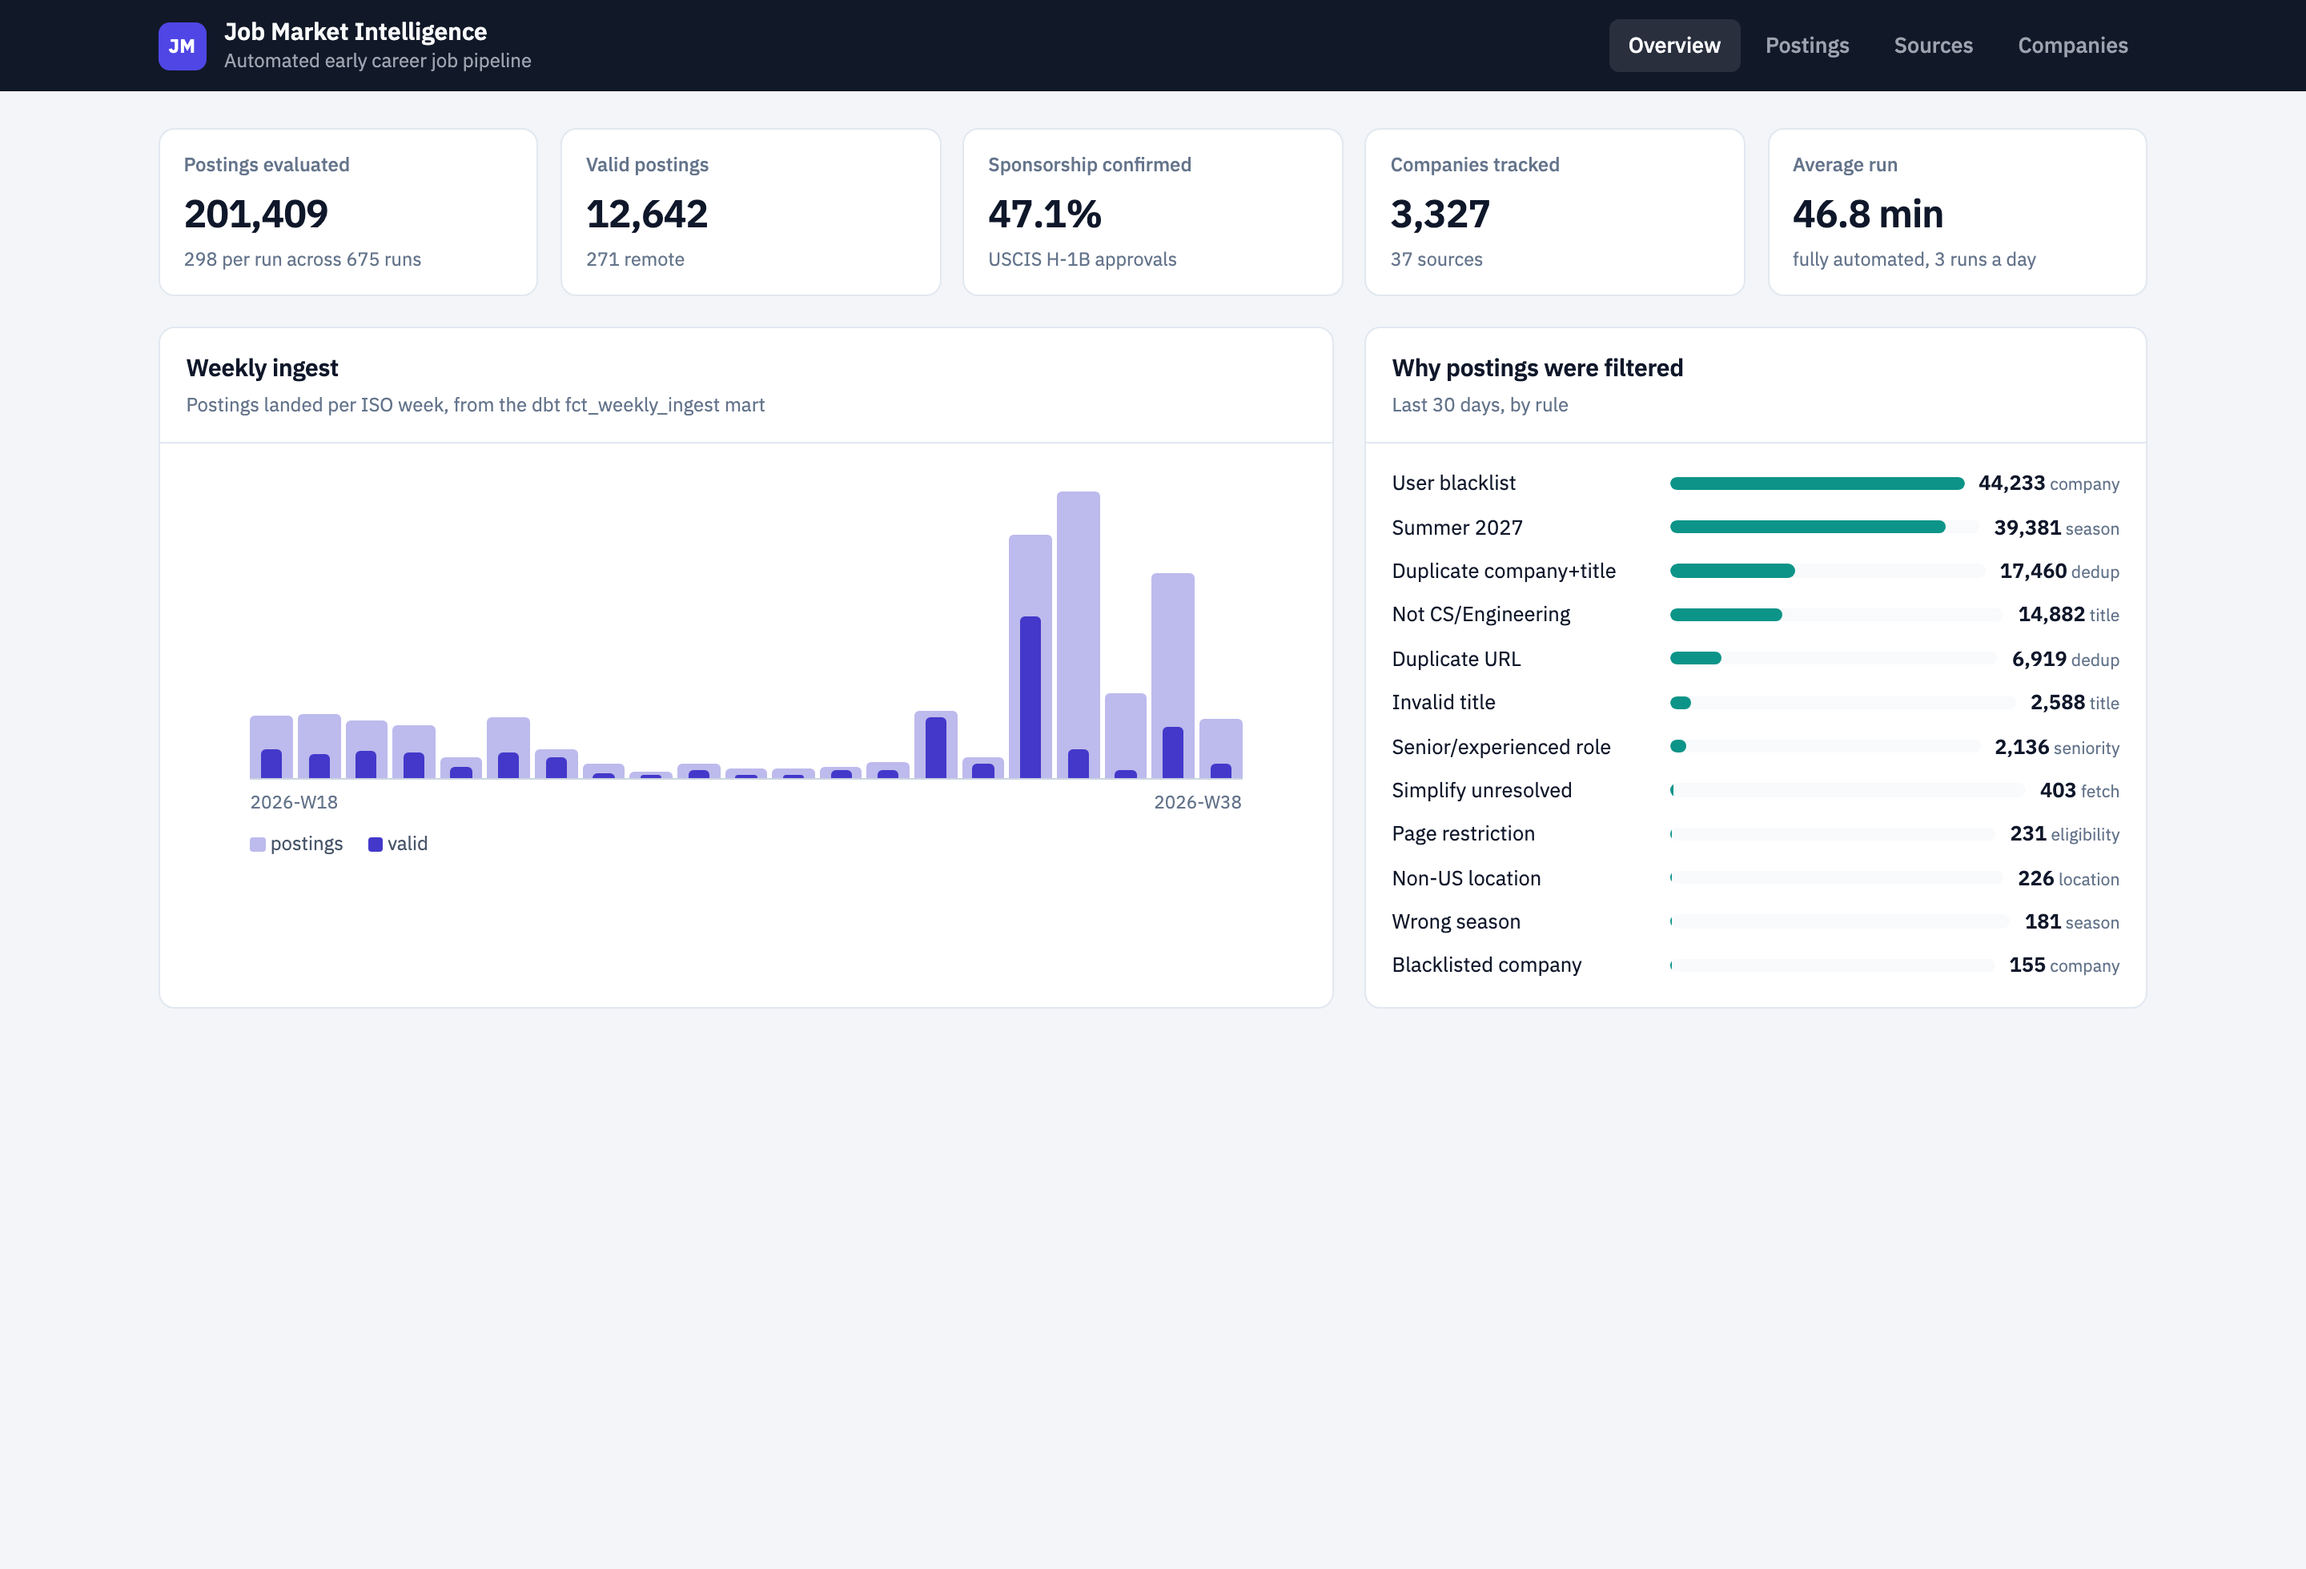
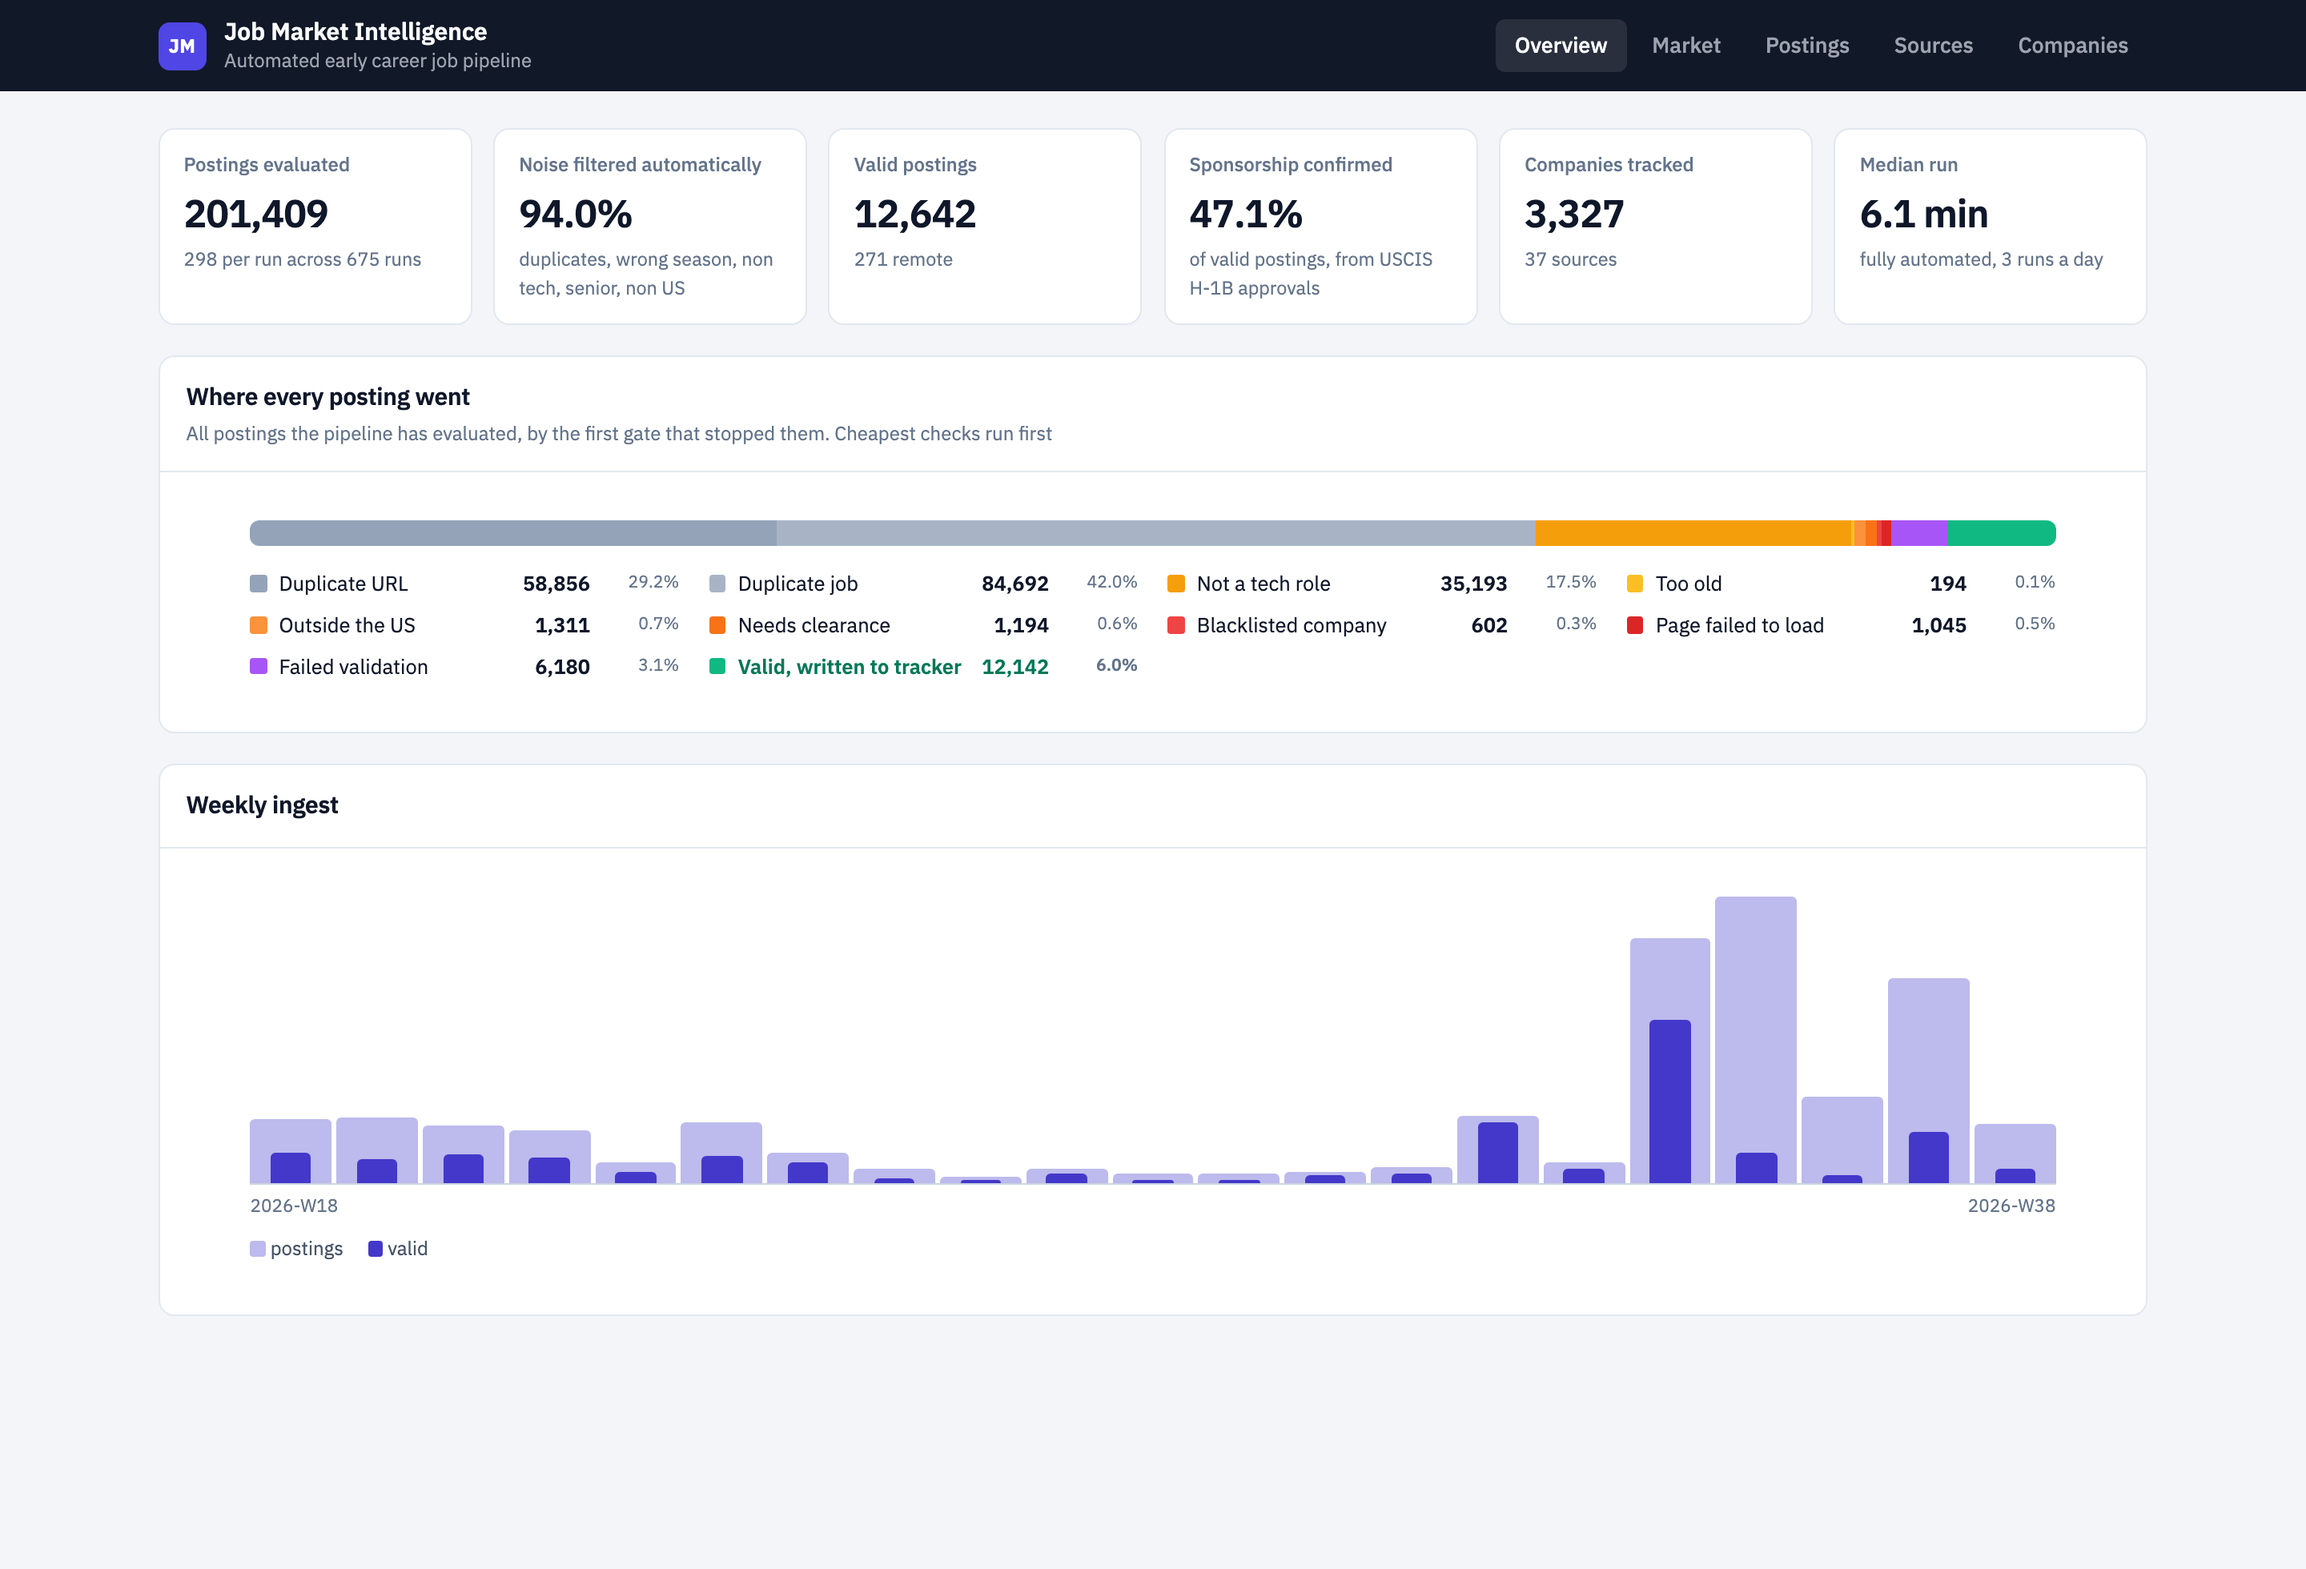
README: Market tab, current views, screenshots from the live site

diff --git a/README.md b/README.md
@@ -241,12 +241,15 @@ A React 19 and strict TypeScript app (`dashboard-web/`) over a read only FastAPI
 
 | View | What it shows |
 |---|---|
-| Overview | Postings evaluated, valid postings, sponsorship share, companies and run time; weekly ingest from the `fct_weekly_ingest` mart; why postings were filtered over the last 30 days |
-| Postings | Search plus source, type, sponsorship and remote filters with paging; keyboard review sessions (J and K move, S shortlists, X skips) that time every decision and compare it with a spreadsheet baseline |
+| Overview | Postings evaluated, noise filtered automatically, valid postings, sponsorship share, companies and median run time; where every posting went, by the first gate that stopped it; weekly ingest |
+| Market | Companies with open roles and how many sponsor H-1B, who is hiring most, top sponsors, role type, career track, top states and remote share, all computed from the same valid postings so the numbers agree |
+| Postings | Search plus source, type, sponsorship and remote filters with paging. Run locally, it adds keyboard review sessions (J and K move, S shortlists, X skips) that time every decision against a spreadsheet baseline |
 | Sources | Accepted versus quarantined rows and yield per source, from `fct_source_quality` |
 | Companies | Hiring activity and sponsorship share, from `dim_company` |
 
-![Postings and review sessions](docs/screenshots/dashboard-postings.png)
+![Market](docs/screenshots/dashboard-market.png)
+
+![Postings](docs/screenshots/dashboard-postings.png)
 
 **Engineering.** Reusable building blocks (a generic sortable `DataTable`, `StatCard`, `Panel`, column and bar charts), state in a Context plus `useReducer` store, and layouts that hold down to phone width. Every connection is read only: SQLite opens with `mode=ro` and DuckDB with `read_only=True`, and personal application outcomes are never queried. Charts read the dbt marts because they are tested; the postings list normalises values that historically arrived in shifted columns instead of dropping those rows. Vitest and React Testing Library cover the reducers, query building and full user flows; the API has its own pytest suite, and both run in CI.
 
